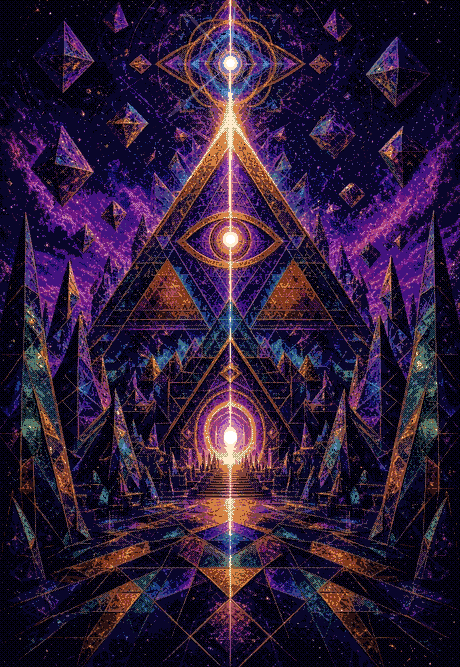
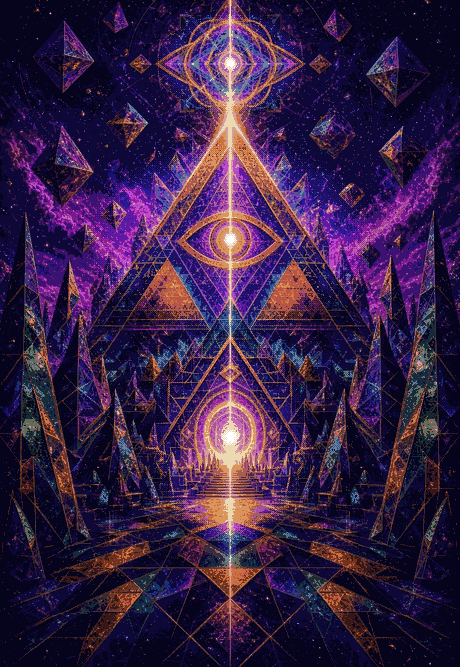
Colour back in the doorway, and detail where you are going
Three things, all of them the same note: it had got blocky and washed
out where it should have been rich.

The doorway now gets its own pass -- 22 bands instead of 6, barely
darkened, almost undithered, and its colour pushed back out. It reads
more saturated than the original rather than less; measured, it had
fallen from 0.379 to 0.318 and the violet was losing to the green around
it. The boundary between the detailed region and the chunky one is
dithered, so it is made of pixels like everything else. The chamber does
the same around its far door and both eyes. The place you are travelling
into now carries visibly more detail than the wood around it.

The lamp moved off the arch centre and onto the light the artwork
already has, at the centroid of the doorway's brightest 2%. On the
geometric middle it sat above the painted glow and read as a white ball
stuck on the picture. AIM still aims the tunnel at the arch; GLOW puts
the lamp on the light. Its edge is dithered rather than round, for the
same reason.

PX went from 3 to 2. At 3 a phone's canvas was about 390 pixels across,
narrower than the 460-pixel artwork -- the site was discarding detail
the picture already had, which is what made it look like an old console.

Two things that had to be fixed along the way: forcing white into an RGB
image cost 274 KB a picture, so white goes in the spare palette slot
instead and it is 94 KB; and the small versions narrow phones load had
[…]

diff --git a/journey.js b/journey.js
@@ -58,7 +58,16 @@ window.RealmJourney = (() => {
 
   /* Drawn small and blown up hard, the same grid the door uses, so the
      room and everything living in it are pixel art too. */
-  const PX = 3;
+  /* How chunky the pixels are: the canvas is drawn at 1/PX of the screen
+     and blown back up with hard edges.
+
+     It was 3. On a phone that made the canvas about 390 pixels across --
+     NARROWER THAN THE 460-PIXEL ARTWORK, so the site was throwing away
+     detail the picture already had and the result read as old console
+     graphics rather than as pixel art. At 2 the canvas is wider than the
+     source, so everything drawn in it survives. It costs a quarter of the
+     drawing work instead of a ninth, which is still cheap. */
+  const PX = 2;
 
   const rand = (a, b) => a + Math.random() * (b - a);
 

diff --git a/gate.js b/gate.js
@@ -54,7 +54,16 @@
      pixel art together, rather than each needing its own treatment. Three
      screen pixels to one drawn pixel, so it reads the same on a phone as
      on a desk. */
-  const PX = 3;
+  /* How chunky the pixels are: the canvas is drawn at 1/PX of the screen
+     and blown back up with hard edges.
+
+     It was 3. On a phone that made the canvas about 390 pixels across --
+     NARROWER THAN THE 460-PIXEL ARTWORK, so the site was throwing away
+     detail the picture already had and the result read as old console
+     graphics rather than as pixel art. At 2 the canvas is wider than the
+     source, so everything drawn in it survives. It costs a quarter of the
+     drawing work instead of a ninth, which is still cheap. */
+  const PX = 2;
 
   function resize() {
     W = window.innerWidth;

diff --git a/tools/scene.py b/tools/scene.py
@@ -23,6 +23,10 @@ Three rules hold the whole thing together.
   3. The dark has to be dark. The old pictures averaged 80 out of 255; a
      light cannot stand out against that. These sit near 40, so the door
      glows rather than merely being present.
+The originals live in art/scenes/. The pass NEVER reads the published
+tree.png or chamber.png -- it did once, ran over its own output, and
+deepened an already-deepened picture down to a mean of 30. Always from
+the source, every time.
 """
 import os
 import numpy as np
@@ -36,6 +40,12 @@ CHAMBER = (460, 667)
 # where the site aims. gate.js zooms at the doorway and puts its glow at the
 # canopy burst; journey.js lights the eyes and the far door. These are the
 # same fractions the old pictures used, so nothing in the JS has to move.
+GLOW = (0.535, 0.834)      # where the artwork's OWN light already is,
+                           # measured as the centroid of its brightest 2%.
+                           # Not the same point as the arch centre, and it
+                           # should not be: a lamp dropped on the middle of
+                           # the doorway sat above the glow already painted
+                           # there and read as a ball stuck on the picture.
 AIM  = (0.503, 0.745)      # the doorway in the trunk — MEASURED off the
                            # art (the violet centroid), not guessed. It had
                            # been 0.545, nineteen pixels to the right of the
@@ -177,20 +187,50 @@ def save(a, path, small_path, colours=44, cores=()):
     picture is about.
     """
     im = Image.fromarray(a.astype(np.uint8))
+
+    # Quantise to one short of the budget, then put white in the spare slot
+    # and point the cores at it. Stamping white into an RGB image instead
+    # cost 274 KB a picture rather than 90 -- a paletted PNG is a third the
+    # size, and a phone pays for every one of those bytes.
     q = im.quantize(colors=colours - 1, method=Image.MEDIANCUT,
-                    dither=Image.Dither.NONE).convert("RGB")
-    out = np.asarray(q).astype(np.uint8).copy()
-    h, w = out.shape[:2]
+                    dither=Image.Dither.NONE)
+    pal = q.getpalette()[: (colours - 1) * 3]
+    white = colours - 1
+    pal += [255, 255, 255]
+    idx = np.asarray(q).copy()
+
+    h, w = idx.shape
     yy, xx = np.mgrid[0:h, 0:w]
+    tiled = tile((h, w))
     for (cx, cy, r) in cores:
-        out[((xx - cx) ** 2 + (yy - cy) ** 2) <= r * r] = 255
-    im = Image.fromarray(out)
-    im.save(path, optimize=True)
-    q = im
+        d = np.sqrt((xx - cx) ** 2 + (yy - cy) ** 2) / max(r, 1e-6)
+        idx[(d + (tiled - 0.5) * 0.9) < 1.0] = white
+
+    q = Image.fromarray(idx, mode="P")
+    q.putpalette(pal)
+    q.save(path, optimize=True)
+    out = np.asarray(q.convert("RGB"))
+    im = q
+    # The small version is what a narrow phone loads, and shrinking threw
+    # every white pixel away -- the whole point of the picture, gone on the
+    # devices most likely to see it. Its cores are stamped too.
     w, h = im.size
-    (q.convert("RGB").resize((240, round(240 * h / w)), Image.LANCZOS)
-       .quantize(colors=40, method=Image.MEDIANCUT, dither=Image.Dither.NONE)
-       .save(small_path, optimize=True))
+    sw = 240
+    sh = round(sw * h / w)
+    small = (q.convert("RGB").resize((sw, sh), Image.LANCZOS)
+               .quantize(colors=39, method=Image.MEDIANCUT,
+                         dither=Image.Dither.NONE))
+    spal = small.getpalette()[:39 * 3] + [255, 255, 255]
+    sidx = np.asarray(small).copy()
+    syy, sxx = np.mgrid[0:sh, 0:sw]
+    stile = tile((sh, sw))
+    k = sw / w
+    for (cx, cy, r) in cores:
+        d = np.sqrt((sxx - cx * k) ** 2 + (syy - cy * k) ** 2) / max(r * k, 1e-6)
+        sidx[(d + (stile - 0.5) * 0.9) < 1.0] = 39
+    small = Image.fromarray(sidx, mode="P")
+    small.putpalette(spal)
+    small.save(small_path, optimize=True)
     arr = out
     print(f"  {os.path.basename(path)}  {im.size}  "
           f"mean {arr.mean():.0f}  brightest {arr.max()}  "
@@ -226,6 +266,19 @@ def deepen(a, gamma=1.55, floor=0.0):
     """
     f = np.clip(a.astype(float) / 255.0, 0, 1)
     return (np.clip(f ** gamma - floor, 0, 1) * 255.0)
+
+
+def saturate(a, k):
+    """Push colour away from grey.
+
+    Banding and a light both pull toward grey and white, and measuring the
+    doorway after the first pass showed exactly that: saturation 0.379 down
+    to 0.318, and the violet losing to the green around it. The detailed
+    region gets its colour pushed back out deliberately rather than merely
+    being damaged less.
+    """
+    g = a.mean(axis=2, keepdims=True)
+    return np.clip(g + (a - g) * k, 0, 255)
 
 
 def add_light(a, glow, colour):
@@ -269,18 +322,58 @@ def lamp(a, cx, cy, r, colour, rays=0, ray_len=2.2, seed=0, aspect=1.0,
     """Put an actual light into the picture: hot white core, hard steps out."""
     glow, d = beam(a.shape[:2], cx, cy, r, rays, ray_len, seed, aspect, spread)
     out = add_light(a, glow, colour)
-    hot = d < r
+
+    # The core's edge is dithered rather than round. A clean circle of white
+    # reads as a sticker; a ragged one reads as something too bright to
+    # look at, which is what a light is.
+    edge = (tile(d.shape) - 0.5) * 0.9
+    hot = (d / max(r, 1e-6) + edge) < 1.0
     out[hot] = core
-    ring = (d >= r) & (d < r * 1.7)
-    out[ring] = np.clip(np.array(colour, dtype=float) * 1.12, 0, 255)
     return out
 
 
-def pass_over(src, lights, gamma, bands, out_name):
+def focus(shape, cx, cy, r, aspect=1.0, soft=0.5):
+    """A hard-edged region of extra detail.
+
+    The edge is dithered rather than faded, so the boundary between the
+    detailed part and the chunky part is itself made of pixels — a soft
+    vignette would look like a mistake next to everything else here.
+    """
+    h, w = shape
+    x, y = grid((h, w))
+    d = np.sqrt(((x - cx) / aspect) ** 2 + (y - cy) ** 2) / r
+    t = np.clip(1 - (d - 1) / max(soft, 1e-6), 0, 1)
+    return (t + (tile((h, w)) - 0.5) * 0.55) > 0.5
+
+
+def pass_over(src, lights, gamma, bands, out_name,
+              fine=None, fine_bands=20, fine_gamma=1.0, fine_sat=1.0):
+    """Two passes, and a region that keeps the finer one.
+
+    Away from the light the picture is cut into a few hard bands and
+    darkened, which is what makes a light a light. But the same treatment
+    over the doorway flattened the violets and cyans that were the best
+    thing in it.
+
+    So the doorway gets its own pass: many more bands, barely darkened,
+    almost no dither. Its colour survives and it carries visibly more
+    detail than the wood around it — which is the point. You are meant to
+    be looking at somewhere you could travel into, not at a hole.
+    """
     a = np.asarray(Image.open(f"{ROOT}/{src}").convert("RGB")).astype(float)
     before = a.copy()
-    a = deepen(a, gamma)
-    a = posterise(a, bands)
+
+    coarse = posterise(deepen(a, gamma), bands)
+    out = coarse
+
+    if fine:
+        detailed = posterise(saturate(deepen(a, fine_gamma), fine_sat),
+                             fine_bands, dither=0.12)
+        for spec in fine:
+            m = focus(a.shape[:2], **spec)
+            out = np.where(m[..., None], detailed, out)
+
+    a = out
     for L in lights:
         a = lamp(a, **L)
     a = np.clip(a, 0, 255)
@@ -293,20 +386,25 @@ def pass_over(src, lights, gamma, bands, out_name):
 def main():
     W, H = TREE
     print("the door in the tree:")
-    t = pass_over("tree.png", [
+    t = pass_over("art/scenes/tree-source.png", [
         dict(cx=SUN[0] * W, cy=SUN[1] * H, r=W * 0.017,
              colour=(255, 238, 186), rays=10, ray_len=3.0, seed=5, spread=7.5),
-        dict(cx=AIM[0] * W, cy=AIM[1] * H, r=W * 0.013,
-             colour=(186, 146, 255), rays=6, ray_len=1.8, seed=9,
-             aspect=0.55, spread=6.5),
-    ], gamma=1.55, bands=6, out_name="tree.png")
+        dict(cx=GLOW[0] * W, cy=GLOW[1] * H, r=W * 0.0085,
+             colour=(150, 100, 244), rays=6, ray_len=1.25, seed=9,
+             aspect=0.62, spread=4.6),
+    ], gamma=1.55, bands=6, out_name="tree.png",
+        # the doorway keeps its own colours and carries three times the
+        # gradation of the bark around it
+        fine=[dict(cx=AIM[0] * W, cy=(AIM[1] + 0.035) * H, r=H * 0.135,
+                   aspect=0.55, soft=0.40)],
+        fine_bands=22, fine_gamma=0.92, fine_sat=1.45)
     save(t, f"{ROOT}/tree.png", f"{ROOT}/tree-small.png",
          cores=[(SUN[0] * W, SUN[1] * H, W * 0.017),
-                (AIM[0] * W, AIM[1] * H, W * 0.013)])
+                (GLOW[0] * W, GLOW[1] * H, W * 0.0085)])
 
     W, H = CHAMBER
     print("the chamber:")
-    c = pass_over("chamber.png", [
+    c = pass_over("art/scenes/chamber-source.png", [
         dict(cx=DOOR[0] * W, cy=DOOR[1] * H, r=W * 0.014,
              colour=(196, 158, 255), rays=5, ray_len=1.7, seed=17,
              aspect=0.6, spread=7.0),
@@ -314,7 +412,13 @@ def main():
              colour=(255, 226, 150), rays=0, spread=5.0),
         dict(cx=EYE_HIGH[0] * W, cy=EYE_HIGH[1] * H, r=W * 0.009,
              colour=(224, 204, 255), rays=8, ray_len=3.4, seed=2, spread=6.0),
-    ], gamma=1.45, bands=6, out_name="chamber.png")
+    ], gamma=1.45, bands=9, out_name="chamber.png",
+        # the far door and both eyes are what you look at, so they keep
+        # their detail; the walls stay chunky
+        fine=[dict(cx=DOOR[0] * W, cy=DOOR[1] * H, r=H * 0.115, aspect=0.75),
+              dict(cx=EYE_BIG[0] * W, cy=EYE_BIG[1] * H, r=H * 0.105, aspect=1.5),
+              dict(cx=EYE_HIGH[0] * W, cy=EYE_HIGH[1] * H, r=H * 0.055, aspect=1.5)],
+        fine_bands=20, fine_gamma=1.0, fine_sat=1.30)
     save(c, f"{ROOT}/chamber.png", f"{ROOT}/chamber-small.png",
          cores=[(DOOR[0] * W, DOOR[1] * H, W * 0.014),
                 (EYE_BIG[0] * W, EYE_BIG[1] * H, W * 0.010),

diff --git a/README.md b/README.md
@@ -245,6 +245,59 @@ violet centroid of the actual artwork is 0.503 — nineteen pixels out, which is
 why the first pass put the glow off to one side of the arch. Measured now,
 in `tools/scene.py` and in `gate.js`, rather than guessed.
 
+### Detail where you are going, not everywhere
+
+The doorway gets its own pass. Away from it the picture is six hard bands
+and darkened, which is what makes a light a light — but the same treatment
+over the doorway flattened the violets and cyans that were the best thing in
+it. Measured: saturation fell from 0.379 to 0.318 and the violet started
+losing to the green around it.
+
+So inside a focus region the picture is **22 bands rather than 6**, barely
+darkened, almost undithered, and its colour is pushed back out — it now
+reads more saturated than the original, not less. The boundary between the
+two is dithered rather than faded, so it is made of pixels like everything
+else. The chamber does the same around its far door and both eyes.
+
+The effect is that the place you are travelling into carries visibly more
+detail than the wood around it, which is the point of a doorway.
+
+### The lamp goes where the light already is
+
+Not on the arch centre. The artwork has its own glow painted into the
+doorway, and dropping a lamp on the geometric middle put a white ball above
+it that read as a sticker. The centroid of the doorway's brightest 2% is at
+(0.535, 0.834); the arch centre is (0.503, 0.745). They are different points
+and should be — `AIM` aims the tunnel zoom at the arch, `GLOW` puts the lamp
+on the light.
+
+The core's edge is dithered rather than round, too. A clean white circle
+reads as a sticker; a ragged one reads as something too bright to look at.
+
+### PX went from 3 to 2
+
+The canvases draw at 1/PX of the screen. At 3, a phone's canvas was about
+390 pixels across — **narrower than the 460-pixel artwork**, so the site was
+throwing away detail the picture already had, and the result looked like an
+old console rather than like pixel art. At 2 the canvas is wider than the
+source and everything in it survives. It costs a quarter of the drawing work
+rather than a ninth, which is still cheap.
+
+### Keeping the file small enough for a phone
+
+Stamping white into an RGB image cost 274 KB a picture. Quantising to one
+short of the budget and putting white in the spare palette slot costs 94 KB
+for the same result. The small versions used on narrow screens get their
+cores stamped as well — shrinking had been throwing every white pixel away,
+losing the whole point of the picture on exactly the devices most likely to
+see it.
+
+### The pass never reads its own output
+
+The source images live in `art/scenes/`. The pass ran over a published
+`tree.png` once and deepened an already-deepened picture to a mean of 30.
+It reads from the source every time now.
+
 ### The redraw that did not work
 
 The first attempt drew both scenes from scratch, procedurally. It was worse
